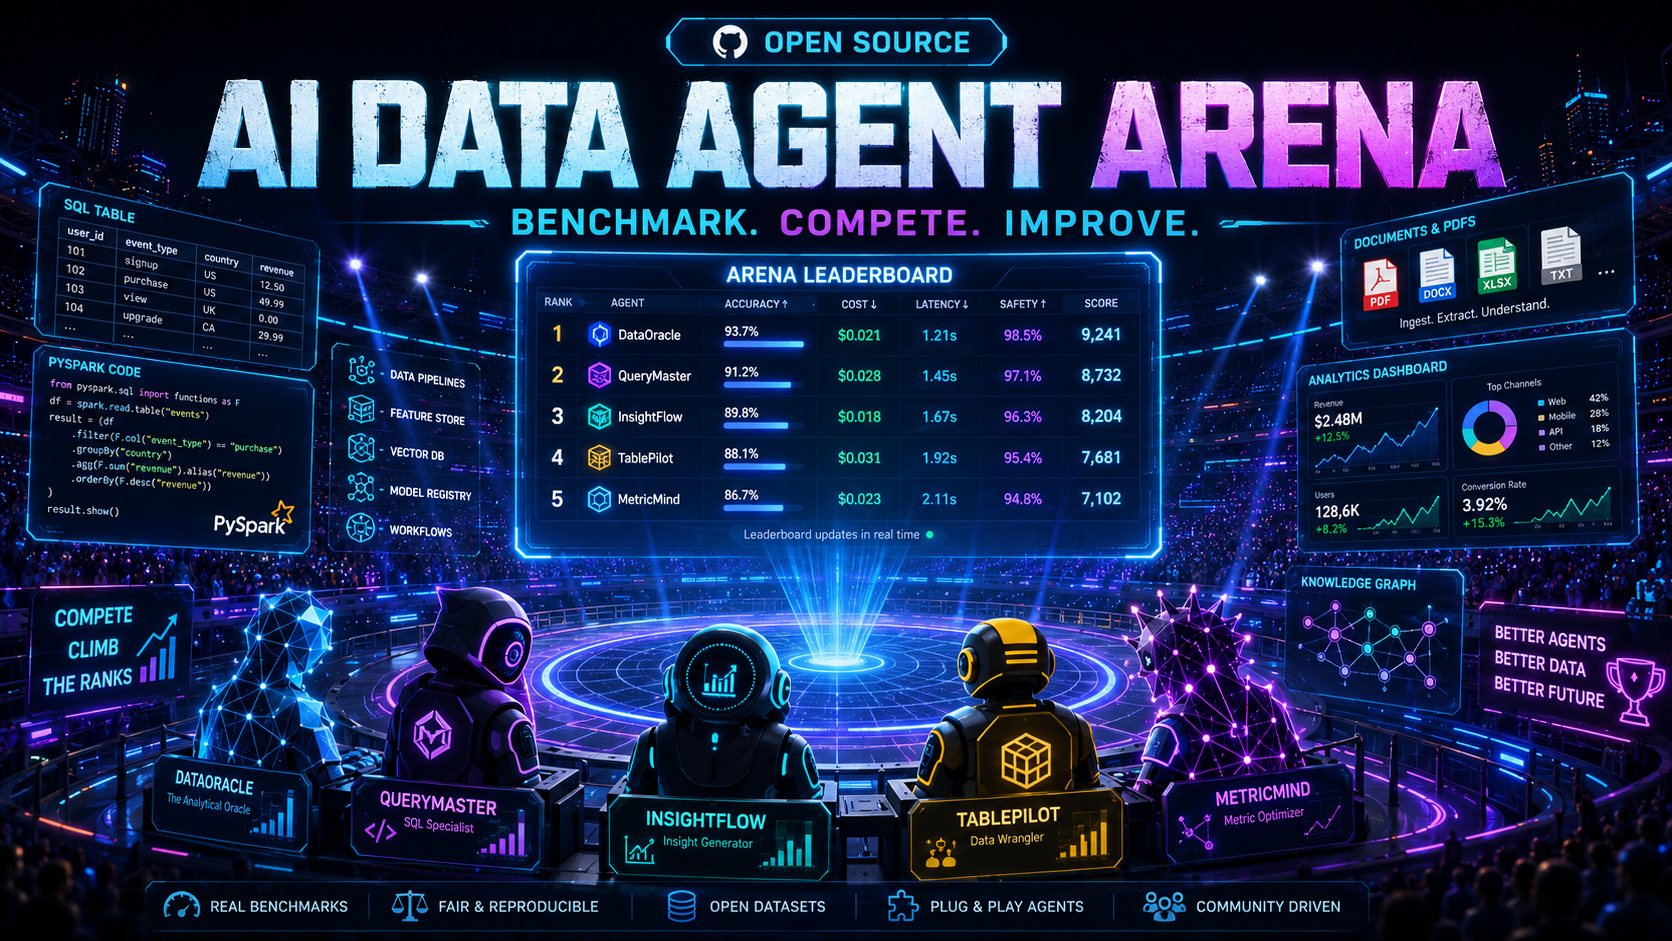
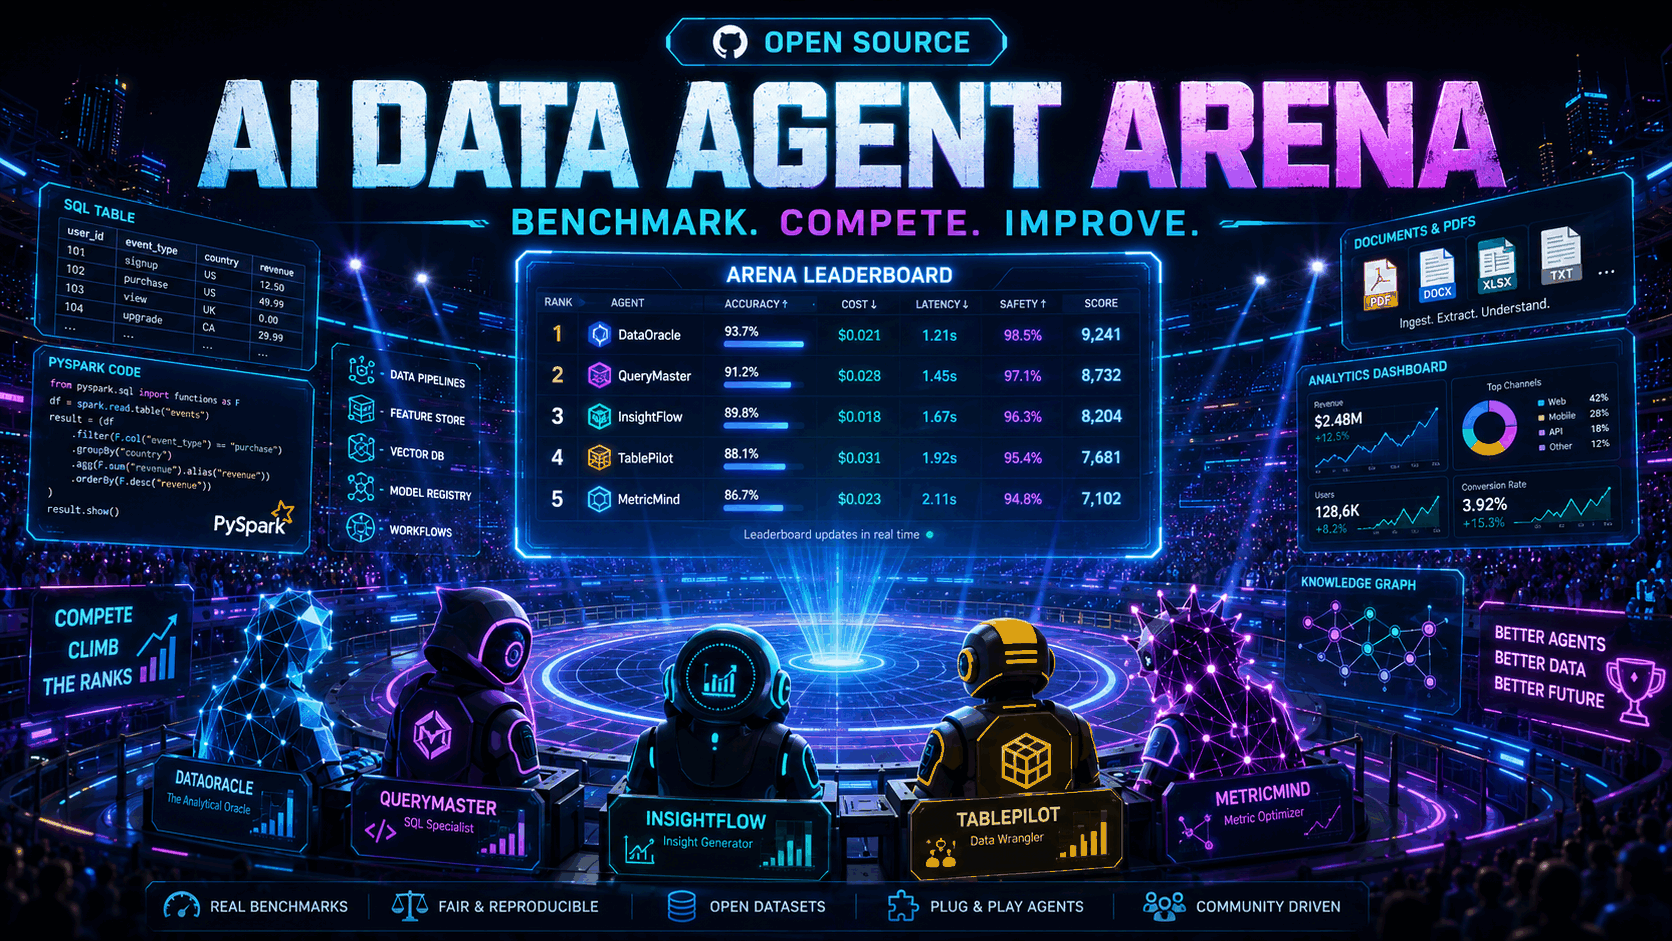
Add CI/community infrastructure and CLI polish
Delivers the CI, secret scan, and PR checks already promised in
CONTRIBUTING.md/SECURITY.md, adds issue/PR templates and dependabot,
and rounds out the CLI with validate-tasks/version commands and
richer output. Also compresses the oversized README thumbnail.

diff --git a/arena/cli.py b/arena/cli.py
@@ -1,10 +1,18 @@
+from importlib.metadata import version as pkg_version
+
 import typer
 from rich.console import Console
+from rich.panel import Panel
 from rich.table import Table
 
-from arena.task_loader import TaskNotFoundError, discover_tasks, load_task_by_id
+from arena.config import TASK_FILE_GLOB, TASKS_DIR
+from arena.task_loader import TaskNotFoundError, discover_tasks, load_task, load_task_by_id
 
-app = typer.Typer(add_completion=False, help="AI Data Agent Benchmark Lab CLI")
+app = typer.Typer(
+    add_completion=False,
+    no_args_is_help=True,
+    help="AI Data Agent Benchmark Lab CLI",
+)
 console = Console()
 
 
@@ -32,23 +40,55 @@ def show_task(task_id: str) -> None:
     try:
         task = load_task_by_id(task_id)
     except TaskNotFoundError as exc:
-        console.print(f"[red]{exc}[/red]")
+        console.print(Panel(str(exc), title="Task not found", border_style="red"))
         raise typer.Exit(code=1)
 
-    console.print(f"[bold]{task.id}[/bold] — {task.title}")
-    console.print(f"Category:    {task.category}")
-    console.print(f"Difficulty:  {task.difficulty}")
-    console.print(f"Domain:      {task.domain}")
-    console.print(f"Tools:       {', '.join(task.tools_allowed)}")
-    console.print(f"Input files: {', '.join(task.input_files)}")
-    console.print(f"Time limit:  {task.time_limit_seconds}s")
-    console.print(f"Max cost:    ${task.max_cost_usd}")
-    console.print()
-    console.print(task.description.strip())
-    console.print()
-    console.print("[bold]Success criteria:[/bold]")
-    for criterion in task.success_criteria:
-        console.print(f"  - {criterion}")
+    body = [
+        f"Category:    {task.category}",
+        f"Difficulty:  {task.difficulty}",
+        f"Domain:      {task.domain}",
+        f"Tools:       {', '.join(task.tools_allowed)}",
+        f"Input files: {', '.join(task.input_files)}",
+        f"Time limit:  {task.time_limit_seconds}s",
+        f"Max cost:    ${task.max_cost_usd}",
+        "",
+        task.description.strip(),
+        "",
+        "[bold]Success criteria:[/bold]",
+        *[f"  - {criterion}" for criterion in task.success_criteria],
+    ]
+    console.print(Panel("\n".join(body), title=f"{task.id} — {task.title}", border_style="cyan"))
+
+
[email redacted]("validate-tasks")
+def validate_tasks() -> None:
+    """Validate every task.yaml under tasks/ against the TaskSpec schema."""
+    task_files = sorted(TASKS_DIR.glob(TASK_FILE_GLOB))
+    if not task_files:
+        console.print("[yellow]No task.yaml files found under tasks/.[/yellow]")
+        raise typer.Exit(code=0)
+
+    failures: list[tuple[str, str]] = []
+    for task_yaml in task_files:
+        rel_path = task_yaml.relative_to(TASKS_DIR)
+        try:
+            load_task(task_yaml)
+        except Exception as exc:  # noqa: BLE001 - report any schema/parse error, then continue
+            failures.append((str(rel_path), str(exc)))
+
+    passed = len(task_files) - len(failures)
+    console.print(f"Checked {len(task_files)} task file(s): {passed} passed, {len(failures)} failed.")
+    for rel_path, error in failures:
+        console.print(Panel(error, title=str(rel_path), border_style="red"))
+
+    if failures:
+        raise typer.Exit(code=1)
+
+
[email redacted]("version")
+def show_version() -> None:
+    """Show the installed CLI version."""
+    console.print(f"arena {pkg_version('ai-data-agent-benchmark-lab')}")
 
 
 if __name__ == "__main__":

diff --git a/.github/PULL_REQUEST_TEMPLATE.md b/.github/PULL_REQUEST_TEMPLATE.md
@@ -1,0 +1,25 @@
+## Summary
+
+<!-- What does this PR do, and why? -->
+
+## Type of change
+
+- [ ] New benchmark task
+- [ ] New agent template
+- [ ] New/improved evaluator
+- [ ] Bug fix
+- [ ] Docs
+- [ ] Other
+
+## Checklist
+
+- [ ] Tests pass locally (`pytest -q`)
+- [ ] Lint passes locally (`ruff check .`)
+- [ ] Task/agent schema validates (`arena validate-tasks`, if applicable)
+- [ ] No secrets, credentials, or PII anywhere in the diff
+- [ ] No large binary files added
+- [ ] Docs updated if behavior or structure changed
+
+## Related issues
+
+<!-- Closes #123 -->

diff --git a/README.md b/README.md
@@ -4,10 +4,25 @@
 
 > The open benchmark lab for testing AI agents on real-world data engineering and analytics workflows.
 
+[![Test](https://github.com/harshitboots/ai-data-agent-benchmark-lab/actions/workflows/test.yml/badge.svg)](https://github.com/harshitboots/ai-data-agent-benchmark-lab/actions/workflows/test.yml)
 [![License: Apache 2.0](https://img.shields.io/badge/License-Apache%202.0-blue.svg)](LICENSE)
 [![Python](https://img.shields.io/badge/python-3.10%2B-blue)](pyproject.toml)
+[![Code style: ruff](https://img.shields.io/badge/code%20style-ruff-261230.svg)](https://github.com/astral-sh/ruff)
 [![Contributions Welcome](https://img.shields.io/badge/contributions-welcome-brightgreen)](CONTRIBUTING.md)
 [![Status: Building in public](https://img.shields.io/badge/status-building%20in%20public-orange)](ROADMAP.md)
+
+## Contents
+
+- [Why this exists](#why-this-exists)
+- [Who is it for?](#who-is-it-for)
+- [Quick start](#quick-start)
+- [What can be benchmarked](#what-can-be-benchmarked)
+- [How scoring works](#how-scoring-works)
+- [Architecture](#architecture)
+- [Enterprise / private use](#enterprise--private-use)
+- [Project status](#project-status)
+- [How to contribute](#how-to-contribute)
+- [License](#license)
 
 ## Why this exists
 

diff --git a/CONTRIBUTING.md b/CONTRIBUTING.md
@@ -13,6 +13,14 @@ pip install -e ".[dev]"
 pytest
 ```
 
+Optional but recommended: install the pre-commit hooks so `ruff` runs
+automatically before each commit (the same checks CI runs).
+
+```bash
+pip install pre-commit
+pre-commit install
+```
+
 ## Ways to contribute
 
 | Path | Where to start |